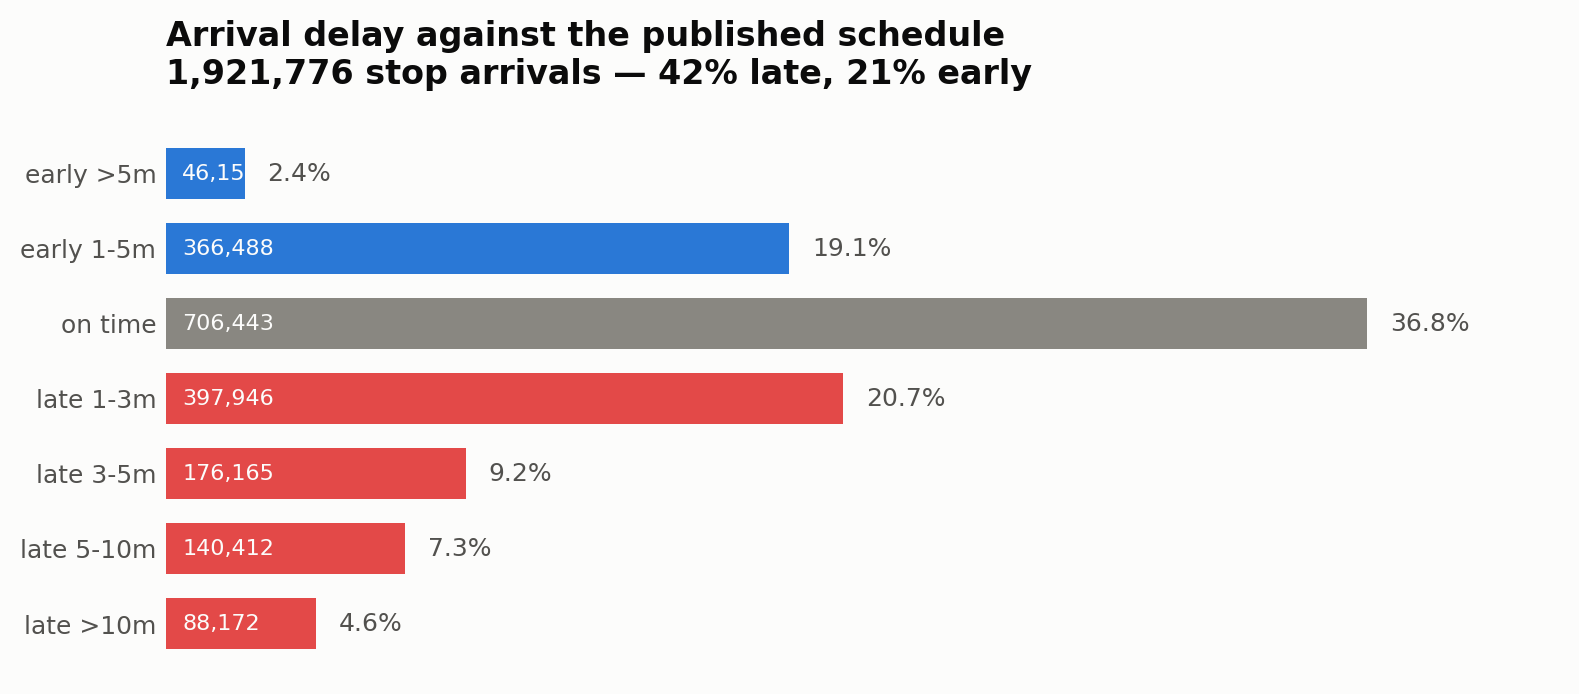
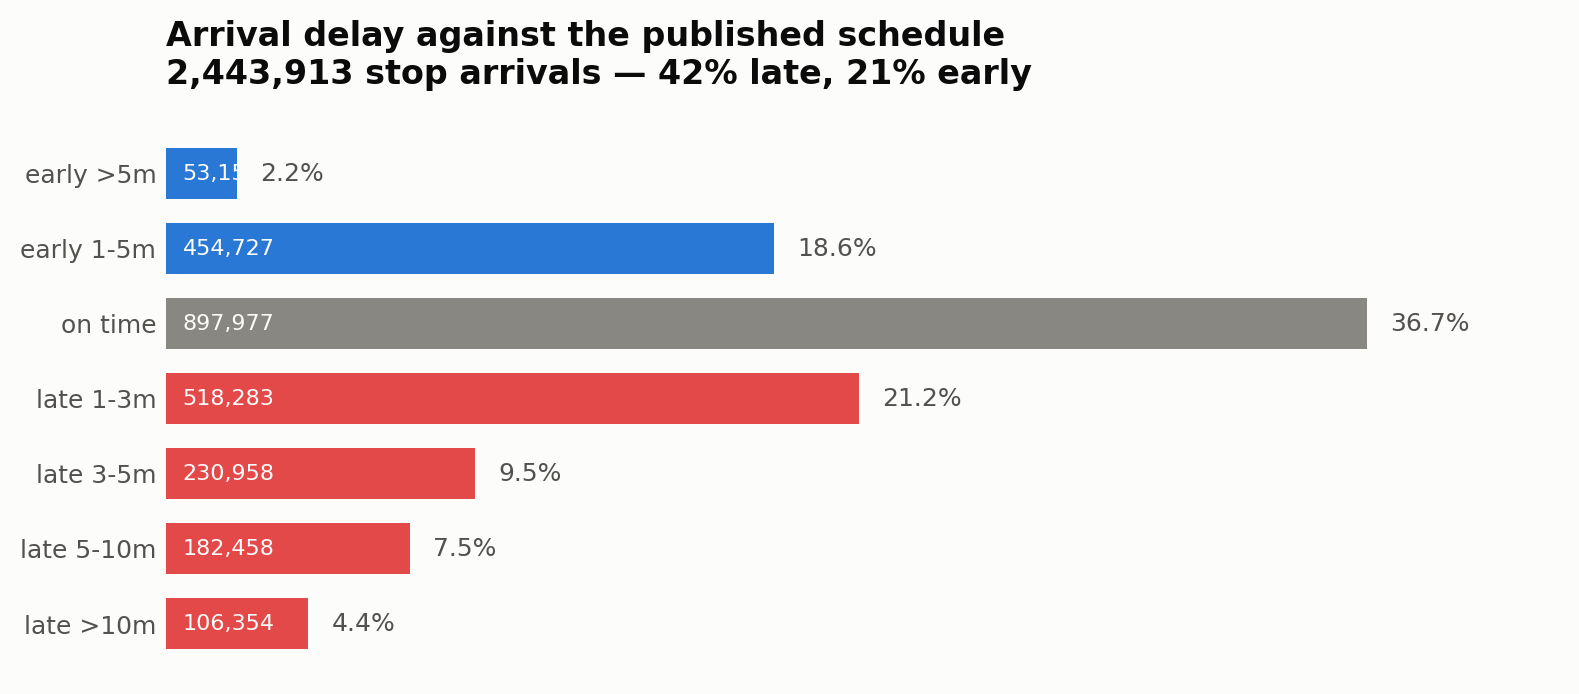
docs: refresh README figures and charts (31956566542)

diff --git a/README.md b/README.md
@@ -11,7 +11,7 @@ its own operations report.
 ## Status
 
 <!-- agent:status:begin -->
-**As of 2026-08-15, the data half is in production and the model half is not.**
+**As of 2026-08-16, the data half is in production and the model half is not.**
 
 | Stage | State |
 |---|---|
@@ -21,9 +21,9 @@ its own operations report.
 | Training, evaluation, model registry | provisioned in Terraform, never run |
 | Inference endpoint, prediction API | infrastructure live, no model behind it |
 
-Nothing is trained yet, so no model has been registered and no endpoint exists. Phase 5 splits train/validation/test by time, which needs 21 distinct service days; **4 are collected**, 17 to go.
+Nothing is trained yet, so no model has been registered and no endpoint exists. Phase 5 splits train/validation/test by time, which needs 21 distinct service days; **5 are collected**, 16 to go.
 
-Gross usage on 2026-08-14 was **$1.07**, a $1.07/day median over the last three days (≈$33/month at that rate).
+Gross usage on 2026-08-15 was **$0.95**, a $1.01/day median over the last three days (≈$31/month at that rate).
 <!-- agent:status:end -->
 
 The MAE figures below are **baselines computed from collected data**, not model
@@ -41,16 +41,16 @@ Collection is deliberately paced rather than rushed. Progress: `make data`.
 ### Baselines, measured
 
 <!-- agent:baselines:begin -->
-Over 1,921,776 labelled stop arrivals, 2026-08-11 to 2026-08-14. **Preliminary**: too few days to cover a weekend, rain, or an incident. Figures come from `sql/07_profile_queries.sql`.
+Over 2,443,913 labelled stop arrivals, 2026-08-11 to 2026-08-15. **Preliminary**: too few days to cover a weekend, rain, or an incident. Figures come from `sql/07_profile_queries.sql`.
 
 | Predictor | MAE (seconds) |
 |---|---|
-| Published schedule (predict zero delay) | **188.8** |
-| Persistence (bus stays as late as it currently is) | **161.0** |
-| Historical median for route/stop/hour | pending, needs ≥5 days of history |
+| Published schedule (predict zero delay) | **181.6** |
+| Persistence (bus stays as late as it currently is) | **156.0** |
+| Historical median for route/stop/hour | see `sql/07_profile_queries.sql` query 4 |
 | **XGBoost model** | pending, Phase 6 |
 
-Persistence beats the printed timetable by 14.7%. The registry gate is `mae_ratio_vs_persistence <= 0.92`, so a model must reach **≤ 148.1 seconds** to be registered at all.
+Persistence beats the printed timetable by 14.1%. The registry gate is `mae_ratio_vs_persistence <= 0.92`, so a model must reach **≤ 143.5 seconds** to be registered at all.
 <!-- agent:baselines:end -->
 
 That persistence number is the honest bar. "A bus four minutes late tends to stay
@@ -105,7 +105,7 @@ Decisions and their trade-offs are recorded in `docs/adr/`.
 ## What the data looks like
 
 <!-- agent:dataprofile:begin -->
-1,942,280 stop arrivals over 4 days of collection (2026-08-11 to 2026-08-14), label completeness 0.989.
+2,473,625 stop arrivals over 5 days of collection (2026-08-11 to 2026-08-15), label completeness 0.988.
 <!-- agent:dataprofile:end -->
 
 The charts below are regenerated daily from
